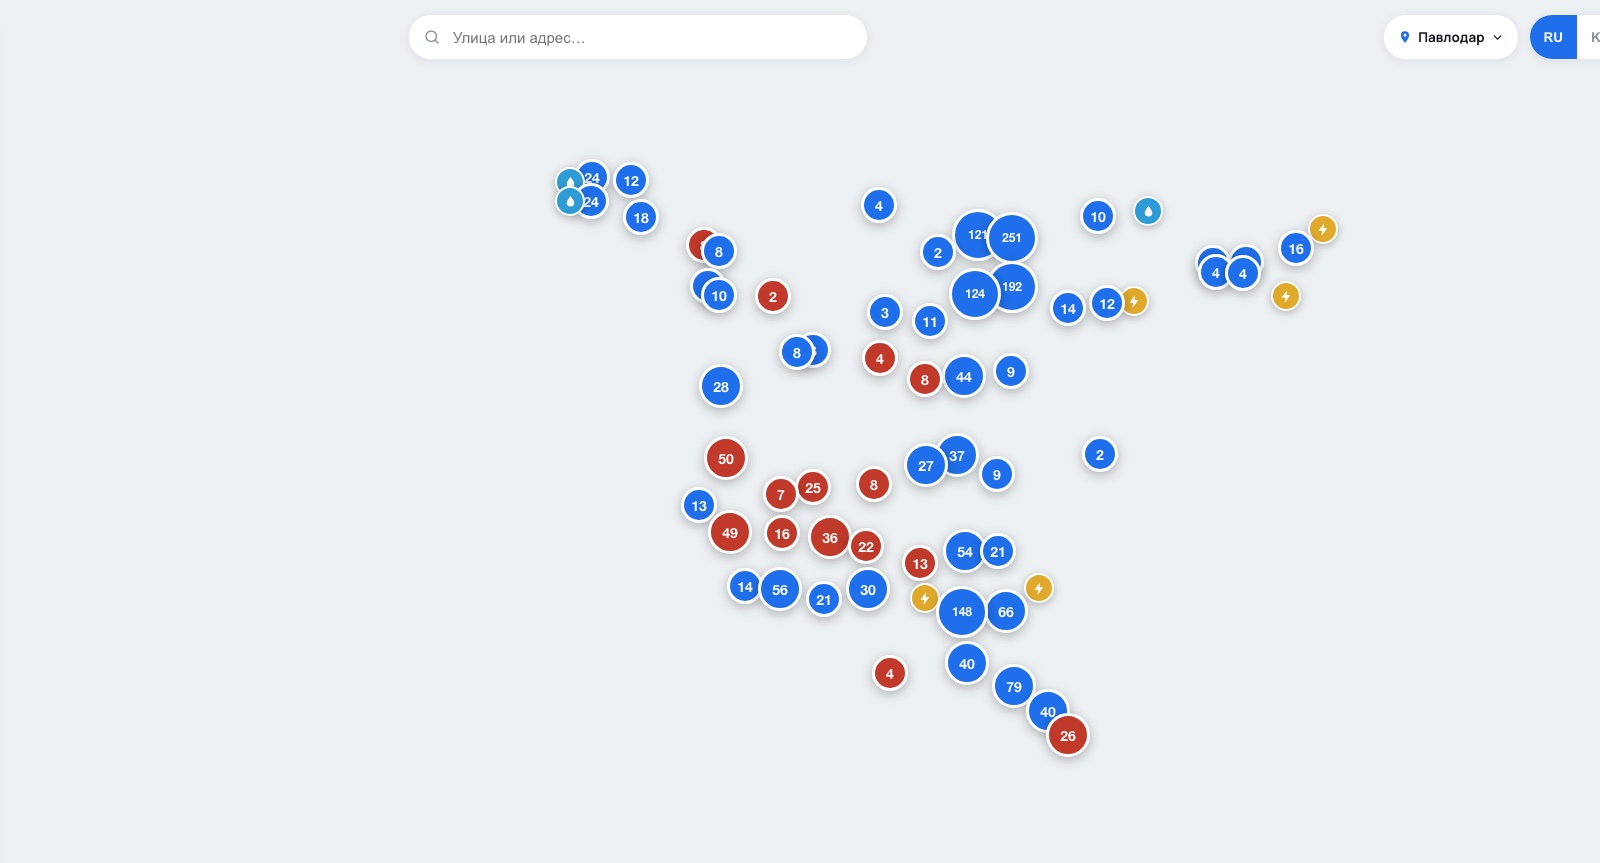
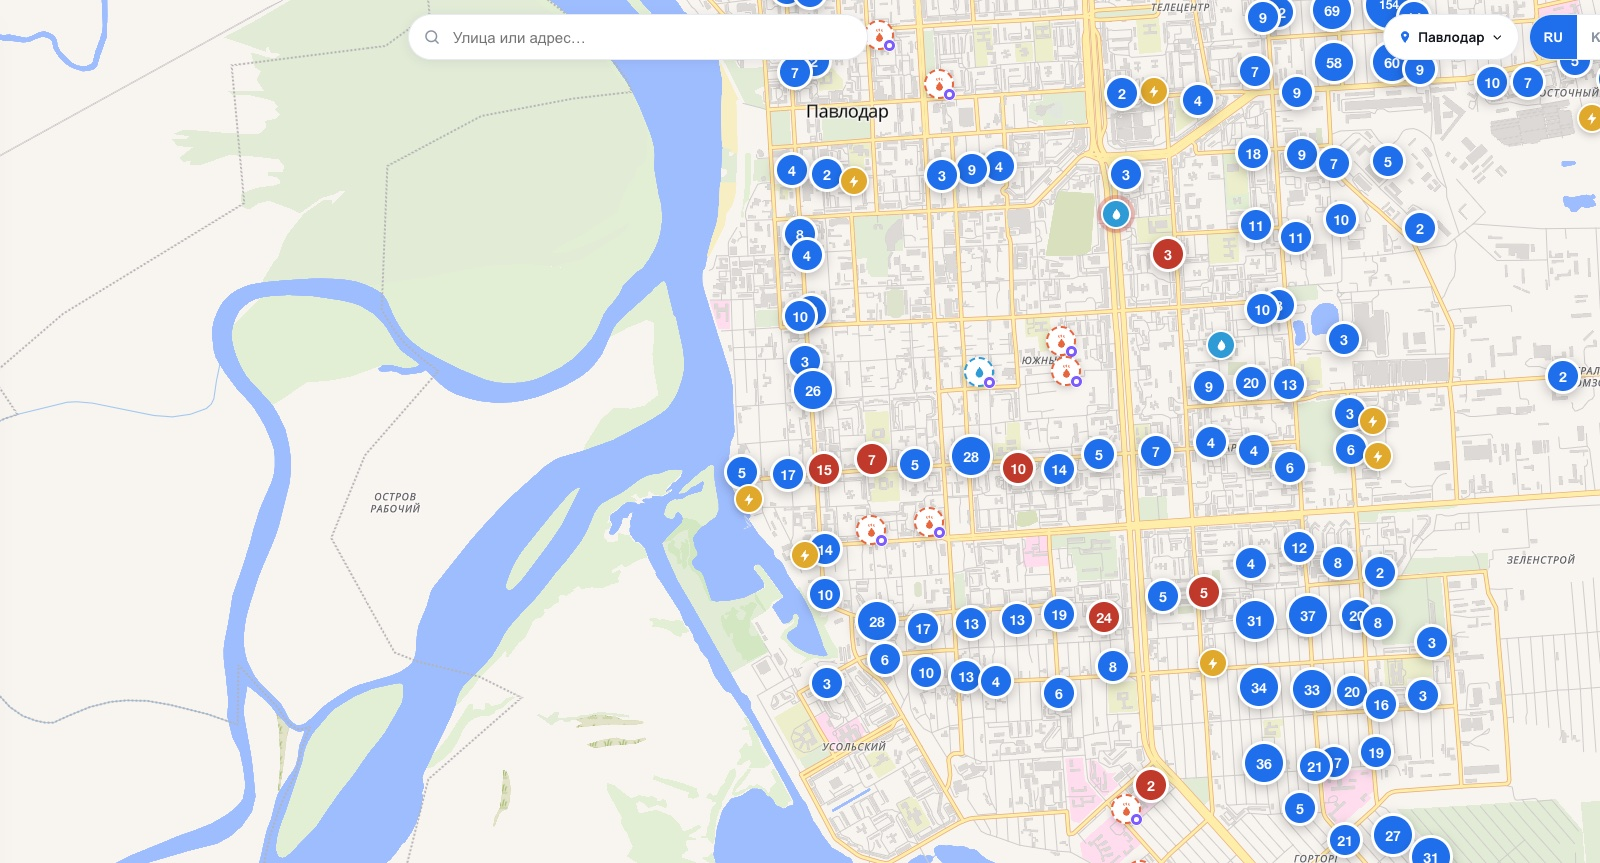
Фикс: лендинг не видел подтверждения из админки + карта на превью была пустой
Пользователь: «отключения горячей воды есть, но они ручные с админки — значит
на лендосе должно так же добавляться число». Проверено на живых данных: 16
подтверждений ГВС + 2 ХВС в Supabase incidents, ни одного в map/data.json.

### Причина

Карта показывает подтверждённое в админке СРАЗУ — тянет /api/pages?page=live
при каждой загрузке (map/app.js:applyLiveLayer, добавлено в этой же сессии).
Лендинг же (api/_lib/city-stats.js) читал ТОЛЬКО статический map/data.json,
который подтягивает incidents лишь раз в час через parser/adapters/incidents.js.
Между «подтвердил в админке» и следующим часовым прогоном парсера лендинг
показывал заведомо устаревшее число — в этом случае 0 вместо 16+.

### Фикс

Вынес логику чтения Supabase incidents в общий api/_lib/live-incidents.js —
теперь И renderLive (api/pages.js, для карты), И computeSnapshot()
(city-stats.js, для лендинга) зовут ОДНУ функцию. Разошлись они изначально
именно потому, что это были две независимые копии одной и той же выборки —
расхождению больше неоткуда взяться.

city-stats.js мёржит live incidents в счётчики через addrKey() (нормализация
street+house, устойчива к RU/KZ вариантам написания, тот же принцип, что в
resolved.js/incidents.js) — дедуп с data.json приближённый (по названию
адреса, не по house.id: incidents не привязаны к конкретному объекту
data.json), для агрегатных цифр на лендинге точность до пикселя не нужна.
RESTORED из живого слоя гасит счётчик, даже если data.json ещё не в курсе.
[…]

diff --git a/api/_lib/city-stats.js b/api/_lib/city-stats.js
@@ -9,10 +9,25 @@
  * обращаются только через runtime fs-путь.
  */
 const PROD_ORIGIN = 'https://barjok.kz';
+const { fetchLiveIncidents } = require('./live-incidents');
+const buildings = require('../../parser/lib/buildings');
 
 let cache = null;
 let cacheAt = 0;
 const TTL_MS = 60000; // data.json обновляется раз в час — минутного кэша достаточно
+
+/* «улица Лермонтова, 91» → «<normStreet-ключ>|91» — та же нормализация, что уже
+   использует reестр домов (устойчива к RU/KZ вариантам написания). Тем же ключом
+   дедупим адрес из data.json и адрес из живых incidents — иначе один и тот же
+   дом, названный по-разному в двух источниках, задвоился бы в счётчике. */
+function addrKey(raw) {
+  const m = String(raw || '').match(/^(.*?),\s*([^,]+)$/);
+  if (!m) return null;
+  const streetKey = buildings.normStreet(m[1]);
+  const house = m[2].trim().toLowerCase().replace(/\s+/g, '').replace(/ё/g, 'е');
+  if (!streetKey || !house) return null;
+  return `${streetKey}|${house}`;
+}
 
 async function computeSnapshot() {
   const now = Date.now();
@@ -31,27 +46,95 @@ async function computeSnapshot() {
     return cache;
   }
 
-  const current = [];
+  /*
+   * ⚠⚠ Живой слой incidents из Supabase — ТА ЖЕ причина, что и в map/app.js:
+   * applyLiveLayer(). Подтверждённое в админке видно на карте СРАЗУ (карта тянет
+   * /api/pages?page=live при каждой загрузке), а в map/data.json попадает только
+   * с ближайшим часовым прогоном парсера. Без этого блока лендинг мог правдиво
+   * писать "0 без горячей воды", пока карта секундой позже показывала бы 16+ —
+   * найдено на живом кейсе (16 hot_water + 2 cold_water подтверждений в админке,
+   * ни одного в data.json). fetchLiveIncidents() — ОБЩАЯ функция с renderLive
+   * (api/pages.js) специально, чтобы у карты и лендинга не было шанса разойтись
+   * по разным копиям одной и той же выборки.
+   *
+   * ⚠ ДЕДУП ПРИБЛИЖЁННЫЙ: считаем через addrKey() (street+house), а не через
+   * house.id — incidents не привязаны к конкретному объекту data.json. Для
+   * АГРЕГАТНЫХ цифр на лендинге (сколько адресов затронуто) точность до
+   * пикселя не нужна — карта показывает КОНКРЕТНЫЙ дом (там своя, более строгая
+   * логика сопоставления, sameAddress()); здесь достаточно не задвоить и не
+   * потерять адрес при разумном совпадении названия улицы.
+   */
+  let live = { active: [], restored: [] };
+  try { live = await fetchLiveIncidents(); } catch (e) { /* лендинг не должен падать из-за БД */ }
+
+  const dataKeys = new Set();       // ключи, УЖЕ существующие в data.json (для восстановления)
   houses.forEach((h) => (h.outages || []).forEach((o) => {
-    if (o.status === 'current') current.push(o);
+    if (o.status === 'past') return;
+    const k = addrKey(h.address);
+    if (k) dataKeys.add(`${k}|${o.resource}`);
   }));
 
-  const byResource = (res) => new Set(
-    houses.filter((h) => (h.outages || []).some((o) => o.resource === res && o.status === 'current')).map((h) => h.id)
-  ).size;
+  const restoredKeys = new Set(
+    live.restored.map((r) => { const k = addrKey(r.address); return k ? `${k}|${r.utility_type}` : null; }).filter(Boolean),
+  );
+  // Живые ACTIVE-адреса, которых ЕЩЁ НЕТ в data.json под тем же ключом — те, что
+  // уже есть, посчитаны union'ом ниже и добавлять их снова значило бы задвоить.
+  const liveOnly = [];
+  const seenLive = new Set();
+  for (const inc of live.active) {
+    const k = addrKey(inc.address);
+    if (!k) continue;
+    const full = `${k}|${inc.utility_type}`;
+    if (restoredKeys.has(full)) continue;      // восстановлено — не считаем отключённым
+    if (dataKeys.has(full)) continue;          // уже учтено через houses ниже
+    if (seenLive.has(full)) continue;          // дубль внутри самого live-слоя
+    seenLive.add(full);
+    liveOnly.push({ key: k, resource: inc.utility_type });
+  }
+
+  // ⚠ restoredKeys гасит и houses-записи, не только live.active — если админ
+  // только что нажал «Восстановлено», а следующий прогон парсера ещё не забрал
+  // это в data.json, старый 'current'/'future' наряд из data.json ДОЛЖЕН
+  // перестать считаться — ровно как applyLiveLayer() убирает его с карты.
+  const isLiveRestored = (address, resource) => {
+    const k = addrKey(address);
+    return !!k && restoredKeys.has(`${k}|${resource}`);
+  };
+
+  const current = [];
+  houses.forEach((h) => (h.outages || []).forEach((o) => {
+    if (o.status === 'current' && !isLiveRestored(h.address, o.resource)) current.push(o);
+  }));
+  // Live-инциденты — это подтверждение «прямо сейчас сломано», всегда трактуем
+  // как current (Supabase не различает current/future для ручных подтверждений).
+  const liveCurrentCount = liveOnly.length;
+
+  const byResource = (res) => {
+    const fromHouses = new Set(
+      houses.filter((h) => (h.outages || []).some((o) => o.resource === res && o.status === 'current' && !isLiveRestored(h.address, res)))
+        .map((h) => addrKey(h.address) || h.id),
+    );
+    liveOnly.filter((l) => l.resource === res).forEach((l) => fromHouses.add(l.key));
+    return fromHouses.size;
+  };
   const plannedCount = current.filter((o) => o.type === 'planned').length;
   const emergencyCount = current.filter((o) => o.type === 'emergency').length;
   const affectedAddresses = new Set(
-    houses.filter((h) => (h.outages || []).some((o) => o.status === 'current')).map((h) => h.id)
-  ).size;
+    houses.filter((h) => (h.outages || []).some((o) => o.status === 'current' && !isLiveRestored(h.address, o.resource)))
+      .map((h) => addrKey(h.address) || h.id),
+  );
+  liveOnly.forEach((l) => affectedAddresses.add(l.key));
 
   // "Предстоящие" — известные заранее плановые работы (status:future). Когда активных
   // отключений 0 (частая ситуация), это единственная реальная цифра, которая сейчас
   // происходит — без неё блок цифр выглядит пустым/"неживым".
   const future = [];
-  houses.forEach((h) => (h.outages || []).forEach((o) => { if (o.status === 'future') future.push(o); }));
+  houses.forEach((h) => (h.outages || []).forEach((o) => {
+    if (o.status === 'future' && !isLiveRestored(h.address, o.resource)) future.push(o);
+  }));
   const futureAffectedAddresses = new Set(
-    houses.filter((h) => (h.outages || []).some((o) => o.status === 'future')).map((h) => h.id)
+    houses.filter((h) => (h.outages || []).some((o) => o.status === 'future' && !isLiveRestored(h.address, o.resource)))
+      .map((h) => addrKey(h.address) || h.id),
   ).size;
 
   // ГЛАВНАЯ цифра "Затронуто N адресов" — та же методика, что и на самой карте
@@ -60,18 +143,28 @@ async function computeSnapshot() {
   // Раньше эта цифра считалась только по активным (affectedAddresses) — при 0
   // активных отключений (обычная ситуация) блок показывал "0" вместо реальных
   // тысяч адресов с уже известными плановыми работами, как на карте.
-  const totalAffectedAddresses = new Set(
-    houses.filter((h) => (h.outages || []).some((o) => o.status !== 'past')).map((h) => h.id)
-  ).size;
-  const byResourceAny = (res) => new Set(
-    houses.filter((h) => (h.outages || []).some((o) => o.resource === res && o.status !== 'past')).map((h) => h.id)
-  ).size;
+  // + живой слой incidents (см. большой комментарий выше про liveOnly).
+  const totalAffectedSet = new Set(
+    houses.filter((h) => (h.outages || []).some((o) => o.status !== 'past' && !isLiveRestored(h.address, o.resource)))
+      .map((h) => addrKey(h.address) || h.id),
+  );
+  liveOnly.forEach((l) => totalAffectedSet.add(l.key));
+  const totalAffectedAddresses = totalAffectedSet.size;
+
+  const byResourceAny = (res) => {
+    const set = new Set(
+      houses.filter((h) => (h.outages || []).some((o) => o.resource === res && o.status !== 'past' && !isLiveRestored(h.address, res)))
+        .map((h) => addrKey(h.address) || h.id),
+    );
+    liveOnly.filter((l) => l.resource === res).forEach((l) => set.add(l.key));
+    return set.size;
+  };
 
   cache = {
     ok: true,
     generatedAt: new Date().toISOString(),
-    activeOutages: current.length,
-    affectedAddresses,
+    activeOutages: current.length + liveCurrentCount,
+    affectedAddresses: affectedAddresses.size,
     totalAffectedAddresses,
     coldWaterAffected: byResourceAny('cold_water'),
     hotWaterAffected: byResourceAny('hot_water'),

diff --git a/api/_lib/live-incidents.js b/api/_lib/live-incidents.js
@@ -1,0 +1,56 @@
+/*
+ * Живой слой incidents из Supabase — ОДИН источник для ДВУХ потребителей:
+ *   1. api/pages.js:renderLive — HTTP-эндпоинт, который карта дёргает при
+ *      каждой загрузке (map/app.js:applyLiveLayer), чтобы подтверждённое в
+ *      админке было видно сразу, не дожидаясь часового прогона парсера.
+ *   2. api/_lib/city-stats.js — цифры на лендинге ("N без горячей воды" и т.п.).
+ *
+ * ⚠⚠ БЫЛО РАЗДЕЛЕНО, И ЭТО БЫЛ БАГ: раньше только renderLive знал про Supabase
+ * incidents, а city-stats.js читал ТОЛЬКО статический map/data.json (который
+ * подтягивает incidents лишь раз в час, через parser/adapters/incidents.js).
+ * Найдено на живом кейсе: 16+ отключений ГВС подтверждены вручную в админке,
+ * видны на карте (через живой слой), но лендинг честно писал "0 горячей воды" —
+ * цифра была верна ТОЛЬКО для устаревшего среза данных, не для того, что
+ * реально видит пользователь на карте секундой позже. Теперь оба потребителя
+ * зовут ЭТУ функцию — расхождению просто неоткуда взяться.
+ */
+const { select } = require('./supabase');
+
+async function fetchLiveIncidents() {
+  if (!process.env.SUPABASE_URL) return { active: [], restored: [] };
+
+  let rows;
+  try {
+    rows = await select('incidents', 'order=updated_at.desc&limit=1000');
+  } catch (e) {
+    // Карта и лендинг обязаны работать и без БД — пустой слой, а не ошибка/500.
+    console.error('live incidents failed:', e.message);
+    return { active: [], restored: [] };
+  }
+
+  // На пару адрес+ресурс может быть несколько incident'ов (старый RESTORED и новый
+  // ACTIVE) — берём самый свежий, иначе устаревший RESTORED глушил бы актуальный ACTIVE.
+  const latest = new Map();
+  for (const inc of rows || []) {
+    const key = `${inc.address}|${inc.utility_type}`;
+    const cur = latest.get(key);
+    if (!cur || new Date(inc.updated_at) > new Date(cur.updated_at)) latest.set(key, inc);
+  }
+
+  const active = [], restored = [];
+  for (const inc of latest.values()) {
+    const item = { address: inc.address, utility_type: inc.utility_type };
+    if (inc.status === 'RESTORED') { restored.push(item); continue; }
+    if (inc.status !== 'ACTIVE') continue;
+    active.push({
+      ...item,
+      reason: inc.manual_override_reason || 'Подтверждено через BARJOK',
+      confirmation_type: inc.confirmation_type,
+      manual: inc.manual_override === 'FORCE_OUTAGE' || inc.confirmation_type === 'MANUAL',
+      start: inc.confirmed_at || inc.created_at || null,
+    });
+  }
+  return { active, restored };
+}
+
+module.exports = { fetchLiveIncidents };

diff --git a/api/pages.js b/api/pages.js
@@ -510,40 +510,8 @@ ${urls.map((u) => `  <url>
 async function renderLive(req, res) {
   res.setHeader('Content-Type', 'application/json; charset=utf-8');
   res.setHeader('Cache-Control', 'no-store');
-  if (!process.env.SUPABASE_URL) return res.status(200).json({ ok: true, active: [], restored: [] });
-
-  let rows;
-  try {
-    const { select } = require('./_lib/supabase');
-    rows = await select('incidents', 'order=updated_at.desc&limit=1000');
-  } catch (e) {
-    // Карта обязана работать и без БД — отдаём пустой слой, а не ошибку.
-    console.error('live incidents failed:', e.message);
-    return res.status(200).json({ ok: true, active: [], restored: [] });
-  }
-
-  // На пару адрес+ресурс может быть несколько incident'ов (старый RESTORED и новый
-  // ACTIVE) — берём самый свежий, иначе устаревший RESTORED глушил бы актуальный ACTIVE.
-  const latest = new Map();
-  for (const inc of rows || []) {
-    const key = `${inc.address}|${inc.utility_type}`;
-    const cur = latest.get(key);
-    if (!cur || new Date(inc.updated_at) > new Date(cur.updated_at)) latest.set(key, inc);
-  }
-
-  const active = [], restored = [];
-  for (const inc of latest.values()) {
-    const item = { address: inc.address, utility_type: inc.utility_type };
-    if (inc.status === 'RESTORED') { restored.push(item); continue; }
-    if (inc.status !== 'ACTIVE') continue;
-    active.push({
-      ...item,
-      reason: inc.manual_override_reason || 'Подтверждено через BARJOK',
-      confirmation_type: inc.confirmation_type,
-      manual: inc.manual_override === 'FORCE_OUTAGE' || inc.confirmation_type === 'MANUAL',
-      start: inc.confirmed_at || inc.created_at || null,
-    });
-  }
+  const { fetchLiveIncidents } = require('./_lib/live-incidents');
+  const { active, restored } = await fetchLiveIncidents();
   return res.status(200).json({ ok: true, updated: new Date().toISOString(), active, restored });
 }
 
